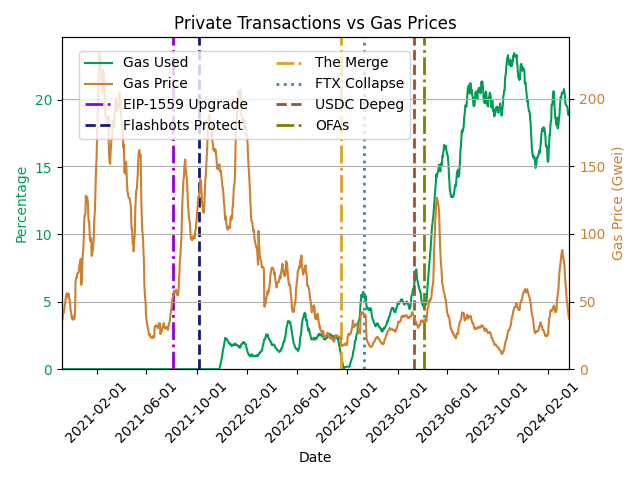
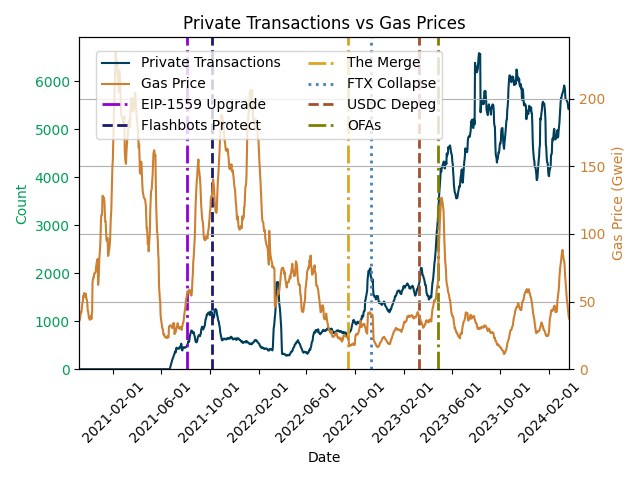
latest plots

Changed region(s): [[0.0, 0.0312, 0.9062, 0.9688], [0.875, 0.5312, 0.9062, 0.5938], [0.8125, 0.875, 0.8438, 0.9375]]

diff --git a/section_5/5.2_pre_merge/5.2.1_private_FB/private_vs_FB.py b/section_5/5.2_pre_merge/5.2.1_private_FB/private_vs_FB.py
@@ -14,64 +14,14 @@ def aggregate_data(data):
     data_by_date = data.groupby('block_date').agg({
         'private_tx_count' : 'sum',
         'flashbots_bundle_count' : 'sum',
+        'public_tx_count': 'sum',
         # 'flashbots_exclusive_transaction_count': 'sum',
     }).reset_index()
     data_by_date['private_tx_count'] = data_by_date['private_tx_count'].rolling(window=14, min_periods=7, center=True).mean()
+    data_by_date['public_tx_count'] = data_by_date['public_tx_count'].rolling(window=14, min_periods=7, center=True).mean()
     data_by_date['flashbots_bundle_count'] = data_by_date['flashbots_bundle_count'].rolling(window=14, min_periods=7, center=True).mean()
     # data_by_date['flashbots_exclusive_transaction_count'] = data_by_date['flashbots_exclusive_transaction_count'].rolling(window=14, min_periods=7, center=True).mean()
     return data_by_date
-
-def plot_data_double_axis(data, filepath):
-    fig, ax1 = plt.subplots()
-
-    color = '#003f5c' # deep blue
-    ax1.set_xlabel('Date')
-    ax1.set_ylabel('Percentage', color=color)
-    ax1.plot(data['block_date'], data['private_tx_pct'], color=color, label='Private Transactions')
-    ax1.tick_params(axis='y', labelcolor=color)
-    
-    ax2 = ax1.twinx()  # Instantiate a second axes that shares the same x-axis
-    color = '#708090' # slate gray
-    ax2.set_ylabel('Count', color='gray')
-    ax2.plot(data['block_date'], data['flashbots_bundle_count'], linestyle='-', color=color, label='Flashbots Bundles')
-    ax2.tick_params(axis='y', labelcolor='gray')
-    ax2.tick_params(axis='x', colors='gray')
-
-    plt.setp(ax1.get_xticklabels(), rotation=45, ha="center")
-    plt.setp(ax2.get_xticklabels(), rotation=45, ha="center")
-
-    plt.title('Private Transactions and Flashbots Bundles')
-    ax1.xaxis.set_major_locator(mdates.MonthLocator(interval=2))
-    ax1.xaxis.set_major_formatter(mdates.DateFormatter('%Y-%m-%d'))
-    ax1.set_xlim(left=data['block_date'].min(), right=data['block_date'].max())
-
-    ax1.set_ylim(0, 10)
-    ax2.set_ylim(0)
-
-    significant_dates = {
-        '2021-10-06': ('midnightblue', '--', 'Flashbots Protect Launch'),
-    }
-    for date, (color, linestyle, label) in significant_dates.items():
-        ax1.axvline(pd.Timestamp(date), color=color, linestyle=linestyle, linewidth=2, label=label)
-
-    fig.tight_layout()  # Adjust layout to make room for the legend
-
-    # Collect all the legend handles and labels
-    handles, labels = [], []
-    for ax in [ax1, ax2]:
-        for handle, label in zip(*ax.get_legend_handles_labels()):
-            handles.append(handle)
-            labels.append(label)
-    ax1.legend(handles, labels, loc='upper left')
-
-    # Combine lines and labels for the legend
-    leg = plt.legend(handles, labels, loc='upper left', frameon=True)
-    leg.set_zorder(100)  # Ensure legend is on top
-
-    plt.grid(True)
-    # Move the rotation setting to the very end after all plotting
-    plt.setp(ax1.get_xticklabels(), rotation=45)
-    plt.savefig(filepath)
 
 def plot_data(data, filepath):
     fig, ax1 = plt.subplots()
@@ -79,6 +29,7 @@ def plot_data(data, filepath):
     # Plotting only on the primary axis, ax1
     line1, = ax1.plot(data['block_date'], data['private_tx_count'], linestyle='-', color='#003f5c', label='Private Transactions') # deep blue
     line2, = ax1.plot(data['block_date'], data['flashbots_bundle_count'], linestyle='-', color='#9dc183', label='Flashbots Bundles') # sage green
+    # line3, = ax1.plot(data['block_date'], data['public_tx_count'], linestyle='-', color='purple', label='Public Transactions') # purple
 
     ax1.set_xlabel('Date')
     ax1.set_ylabel('Count')
@@ -150,7 +101,6 @@ def main():
     data = load_and_prepare_data('../../../final_data.csv')
     data_by_date = aggregate_data(data)
     plot_data(data_by_date, '5.2.1_private_vs_FB.png')
-    # plot_data_double_axis(data_by_date, '5.2.1_private_vs_FB.png')
     
     pearson, pearson_p, spearman, spearman_p = calculate_correlation(data_by_date)
     print(f"Pearson correlation: {pearson}, p value: {pearson_p}")

diff --git a/section_5/5.2_pre_merge/5.2.2_FB_and_mev/profit_mev_fb.py b/section_5/5.2_pre_merge/5.2.2_FB_and_mev/profit_mev_fb.py
@@ -29,7 +29,7 @@ def aggregate_data(data):
         data_by_date['sandwich_extractor_profit'] + 
         data_by_date['liquid_extractor_profit']
     )
-    # data_by_date['total_extractor_profit_without_swaps'] = data_by_date['total_extractor_profit_without_swaps'].rolling(window=14).mean()
+    data_by_date['total_extractor_profit_without_swaps'] = data_by_date['total_extractor_profit_without_swaps'].rolling(window=14, min_periods=7, center=True).mean()
 
     return data_by_date
 
@@ -53,16 +53,16 @@ def plot_data_double_axis(data, filepath):
 
     # Setting up the right y-axis for cumulative profit
     ax2 = ax1.twinx()
-    ax2.set_ylabel('Cumulative Profit (USD)', color='darkred')
-    ax2.plot(data['block_date'], data['cumulative_profit'], linestyle='--', color='#DC143C', label='Cumulative Extractor Profit') #crimson
+    ax2.set_ylabel('Extractor Profit (USD)', color='darkred')
+    ax2.plot(data['block_date'], data['total_extractor_profit_without_swaps'], linestyle='--', color='#DC143C', label='Extractor Profit') #crimson
     ax2.tick_params(axis='y', labelcolor='darkred')
 
-    ax2.yaxis.set_major_formatter(FuncFormatter(millions_formatter))
+    # ax2.yaxis.set_major_formatter(FuncFormatter(millions_formatter))
 
     plt.setp(ax1.get_xticklabels(), rotation=45, ha="center")
     plt.setp(ax2.get_xticklabels(), rotation=45, ha="center")
 
-    plt.title('MEV Transactions, Flashbots Bundles, and Cumulative Extractor Profit')
+    plt.title('MEV Transactions, Flashbots Bundles, and Extractor Profit')
     ax1.xaxis.set_major_locator(mdates.MonthLocator(interval=2))
     ax1.xaxis.set_major_formatter(mdates.DateFormatter('%Y-%m-%d'))
     ax1.set_xlim(left=data['block_date'].min(), right=data['block_date'].max())

diff --git a/section_5/5.3_post_merge/5.3.2_mev_and_ofa/mev_ofa.py b/section_5/5.3_post_merge/5.3.2_mev_and_ofa/mev_ofa.py
@@ -26,6 +26,7 @@ def aggregate_data(data):
         data_by_date['sandwich_extractor_profit'] + 
         data_by_date['liquid_extractor_profit']
     )
+    data_by_date['total_extractor_profit_without_swaps'] = data_by_date['total_extractor_profit_without_swaps'].rolling(window=14, min_periods=7, center=True).mean()
 
     return data_by_date
 
@@ -44,7 +45,7 @@ def plot_data_double_axis(data, mev_blocker_data, filepath):
     # First axis plots
     ax1.set_xlabel('Date')
     ax1.set_ylabel('Count')
-    line1, = ax1.plot(data['block_date'], data['fb_postmerge_tx_count'], color="#9dc183", label='Flashbots Transactions') # sage green
+    line1, = ax1.plot(data['block_date'], data['fb_postmerge_tx_count'], color="#9dc183", label='Flashbots Protect Transactions') # sage green
     line2, = ax1.plot(mev_blocker_data['block_date'], mev_blocker_data['mined'], color="#c2185b", label='MEV Blocker Transactions') # magenta
     line3, = ax1.plot(data['block_date'], data['mev_tx_count'], color="#f08080", label='MEV Activity') # light coral
 
@@ -52,8 +53,8 @@ def plot_data_double_axis(data, mev_blocker_data, filepath):
 
     # Setting up the right y-axis for cumulative profit
     ax2 = ax1.twinx()
-    ax2.set_ylabel('Cumulative Profit (USD)', color='darkred')
-    ax2.plot(data['block_date'], data['cumulative_profit'], linestyle='--', color='#DC143C', label='Extractor Profit')
+    ax2.set_ylabel('Extractor Profit (USD)', color='darkred')
+    ax2.plot(data['block_date'], data['total_extractor_profit_without_swaps'], linestyle='--', color='#DC143C', label='Extractor Profit')
     ax2.tick_params(axis='y', labelcolor='darkred')
 
     ax2.yaxis.set_major_formatter(FuncFormatter(thousands_formatter))

diff --git a/section_5/5.4_damage/inclusion_time.py b/section_5/5.4_damage/inclusion_time.py
@@ -26,11 +26,11 @@ def plot_data(data, filepath):
     fig, ax1 = plt.subplots()
 
     ax2 = ax1.twinx()
-    line1, = ax1.plot(data['block_date'], data['private_gasused_pct'], linestyle='-', color='#009d57', label='Private O.F. Gas Used') # emerald green
+    line1, = ax1.plot(data['block_date'], data['private_tx_count'], linestyle='-', color='#003f5c', label='Private Transactions') # deep blue
     line2, = ax2.plot(data['block_date'], data['median_timepending'], linestyle='-', color='#DDA0DD', label='Median Inclusion Time') # plum
 
     ax1.set_xlabel('Date')
-    ax1.set_ylabel('Percentage', color='#009d57')
+    ax1.set_ylabel('Count', color='#009d57')
     ax2.set_ylabel('Time pending (miliseconds)', color='#DDA0DD')
 
     ax1.tick_params(axis='y', labelcolor='#009d57')
@@ -53,7 +53,7 @@ def plot_data(data, filepath):
         '2022-09-15': ('goldenrod', '-.', 'The Merge'),
         '2022-11-11': ('steelblue', ':', 'FTX Collapse'),
         '2023-03-11': ('sienna', '--', 'USDC Depeg'),
-        '2023-04-05': ('olive', '-.', 'OFAs'),
+        '2023-04-27': ('olive', '-.', 'OFAs'),
     }
     lines = [line1, line2]  # Start with the main lines
     labels = [line1.get_label(), line2.get_label()]  # Start with the main labels

diff --git a/section_5/5.4_damage/gasprice.py b/section_5/5.4_damage/gasprice.py
@@ -25,11 +25,11 @@ def plot_data(data, filepath):
     fig, ax1 = plt.subplots()
 
     ax2 = ax1.twinx()
-    line1, = ax1.plot(data['block_date'], data['private_gasused_pct'], linestyle='-', color='#009d57', label='Gas Used') # emerald green
+    line1, = ax1.plot(data['block_date'], data['private_tx_count'], linestyle='-', color='#003f5c', label='Private Transactions') # deep blue
     line2, = ax2.plot(data['block_date'], data['median_gasprice_gwei'], linestyle='-', color='#cd7f32', label='Gas Price') # bronze
 
     ax1.set_xlabel('Date')
-    ax1.set_ylabel('Percentage', color='#009d57')
+    ax1.set_ylabel('Count', color='#009d57')
     ax2.set_ylabel('Gas Price (Gwei)', color='#cd7f32')
 
     ax1.tick_params(axis='y', labelcolor='#009d57')
@@ -52,7 +52,7 @@ def plot_data(data, filepath):
         '2022-09-15': ('goldenrod', '-.', 'The Merge'),
         '2022-11-11': ('steelblue', ':', 'FTX Collapse'),
         '2023-03-11': ('sienna', '--', 'USDC Depeg'),
-        '2023-04-05': ('olive', '-.', 'OFAs'),
+        '2023-04-27': ('olive', '-.', 'OFAs'),
     }
     lines = [line1, line2]  # Add main lines first
     labels = [line1.get_label(), line2.get_label()]  # Add main labels first

diff --git a/section_5/5.3_post_merge/5.3.1_private_ofa/private_ofa.py b/section_5/5.3_post_merge/5.3.1_private_ofa/private_ofa.py
@@ -25,7 +25,7 @@ def plot_data(data, mev_blocker_data, filepath):
 
     # Plotting only on the primary axis, ax1
     line1, = ax1.plot(data['block_date'], data['private_tx_count'], linestyle='-', color='#003f5c', label='Private Transactions') # deep blue
-    line2, = ax1.plot(data['block_date'], data['fb_postmerge_tx_count'], linestyle='-', color='#9dc183', label='Flashbots Transactions') # sage green
+    line2, = ax1.plot(data['block_date'], data['fb_postmerge_tx_count'], linestyle='-', color='#9dc183', label='Flashbots Protect Transactions') # sage green
     line3, = ax1.plot(mev_blocker_data['block_date'], mev_blocker_data['mined'], color='#c2185b', label='MEV Blocker Transactions') # magenta
 
     ax1.set_xlabel('Date')

diff --git a/section_5/5.1_private_big_picture/5.1.2_mev_activity/mev_types.py b/section_5/5.1_private_big_picture/5.1.2_mev_activity/mev_types.py
@@ -45,7 +45,7 @@ def plot_data(data, filepath):
         '2022-09-15': ('goldenrod', '-.', 'The Merge'),
         '2022-11-11': ('steelblue', ':', 'FTX Collapse'),
         '2023-03-11': ('sienna', '--', 'USDC Depeg'),
-        '2023-04-05': ('olive', '-.', 'OFAs Launch'),
+        '2023-04-27': ('olive', '-.', 'MEV-Blocker Launch'),
     }
     for date, (color, linestyle, label) in significant_dates.items():
         ax.axvline(pd.Timestamp(date), color=color, linestyle=linestyle, linewidth=2, label=label)
